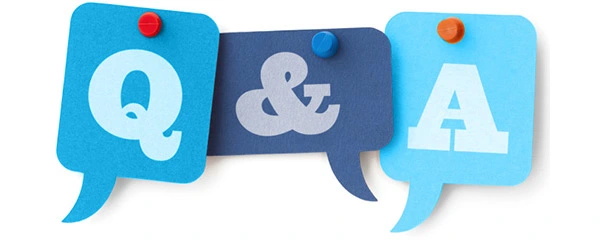
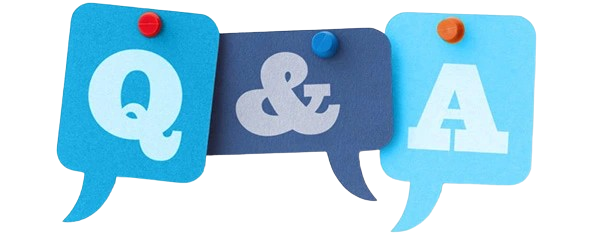
adding changes

diff --git a/ubora-cbc-informational/src/Features/index.css b/ubora-cbc-informational/src/Features/index.css
@@ -185,7 +185,7 @@
             
             font-size: 15px;
             width: 320px;
-            margin: 0px 20px;
+            margin: 0px 30px;
             text-align: start;
             
             }
@@ -201,7 +201,7 @@
 
                 flex-direction: column;
                 gap: 0px;
-                padding: 0px 20px;
+                padding: 0px 30px;
                 
                 }
 
@@ -346,7 +346,7 @@
             
             font-size: 15px;
             width: 450px;
-            margin: 0px 30px;
+            margin: 0px 50px;
             text-align: start;
             
             }
@@ -361,7 +361,7 @@
 
                 flex-direction: column;
                 gap: 0px;
-                padding: 0px 30px;
+                padding: 0px 45px;
                 
                 }
 
@@ -615,7 +615,6 @@
                 
                 #QnA-paragraph{
                 
-                /* border: solid 1px; */
                 width: 800px;
                 text-align: start;
                 font-size: 30px;

diff --git a/ubora-cbc-informational/src/index.js b/ubora-cbc-informational/src/index.js
@@ -1,13 +1,13 @@
 import React from 'react';
 import ReactDOM from 'react-dom/client';
 import './index.css';
-import Ubora from './App';
+import App from './App';
 import reportWebVitals from './reportWebVitals';
 
 const root = ReactDOM.createRoot(document.getElementById('root'));
 root.render(
   <React.StrictMode>
-    <Ubora />
+    <App />
   </React.StrictMode>
 );
 

diff --git a/ubora-cbc-informational/src/Features/index.js b/ubora-cbc-informational/src/Features/index.js
@@ -45,7 +45,7 @@ return(
     providing feedback , fostering a collaborative learning environment.</p>
  </div>
 
-<img src="/images/Q_A-removebg-preview.png" className='QnA-image'/>
+<img src="/images/Q&A.png" className='QnA-image'/>
 
 </div>
 

diff --git a/ubora-cbc-informational/src/App.js b/ubora-cbc-informational/src/App.js
@@ -2,7 +2,7 @@
 
 import Features from "./Features";
 
-const Ubora = () =>{
+const App = () =>{
 
 return(
 
@@ -18,4 +18,4 @@ return(
 
 }
 
-export default Ubora;
+export default App;
